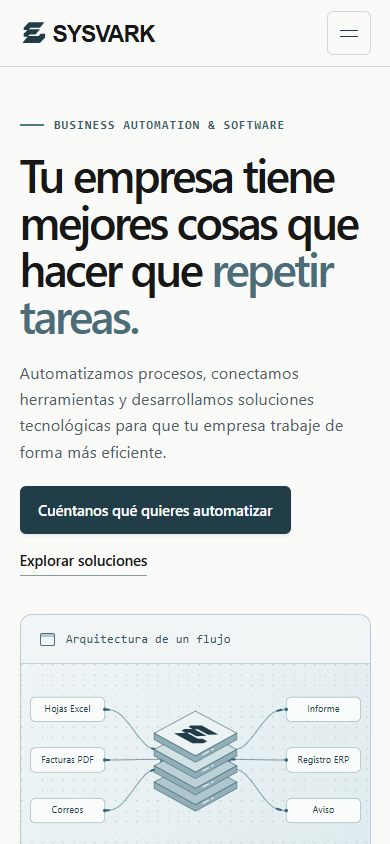
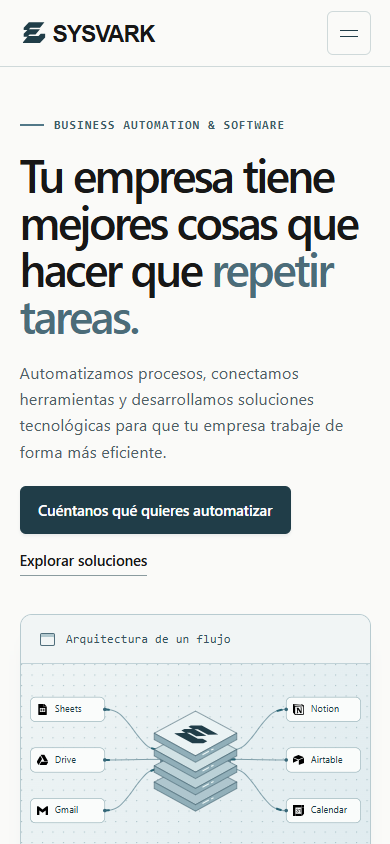
Mejora los flujos animados, las demostraciones y la calculadora

diff --git a/index.html b/index.html
@@ -22,9 +22,8 @@
 <!--DEMOS-->
 <section id="metodo" class="wrap section"><p class="eyebrow">Cómo trabajamos</p><h2>Del proceso a la implantación</h2><p class="lead">Siempre que sea viable, aprovechamos la infraestructura que tu empresa ya utiliza.</p><ol class="method-list">
 <li><h3>Entendemos el proceso</h3><p>Analizamos qué tareas se repiten, qué herramientas intervienen y dónde hace falta criterio humano.</p></li><li><h3>Diseñamos y desarrollamos</h3><p>Acordamos el alcance, el presupuesto y los entregables. Construimos la solución sobre las necesidades identificadas.</p></li><li><h3>Implantamos y acompañamos</h3><p>Probamos la solución con escenarios representativos, documentamos su uso y ofrecemos soporte si se contrata.</p></li></ol></section>
-<section id="calculadora" class="calc-band"><div class="wrap section"><p class="eyebrow">Calculadora de ahorro</p><h2>¿Qué tiempo podrías recuperar?</h2><p class="lead">Ajusta los valores para estimar el coste del trabajo manual en un proceso concreto.</p><div class="calc-grid"><div class="controls">
-<div class="calc-control"><label for="hours-number">Horas semanales dedicadas</label><span class="number-shell"><input id="hours-number" type="number" min="0" max="168" step="0.1" value="10" inputmode="decimal"><span>h</span></span><input id="hours-range" type="range" min="0" max="168" step="0.1" value="10" aria-label="Horas semanales dedicadas"></div><div class="calc-control"><label for="rate-number">Coste estimado por hora</label><span class="number-shell"><input id="rate-number" type="number" min="0" max="500" step="0.1" value="25" inputmode="decimal"><span>€</span></span><input id="rate-range" type="range" min="0" max="500" step="0.1" value="25" aria-label="Coste estimado por hora"></div><div class="calc-control"><label for="percent-number">Tiempo que podría liberarse</label><span class="number-shell"><input id="percent-number" type="number" min="0" max="100" step="0.1" value="50" inputmode="decimal"><span>%</span></span><input id="percent-range" type="range" min="0" max="100" step="0.1" value="50" aria-label="Tiempo que podría liberarse"></div></div><div class="estimate"><p>Horas potencialmente liberadas al mes</p><strong id="monthly-saved">—</strong><div class="bar-label">Tiempo actual <span id="monthly-hours">—</span></div><div class="bar"><span id="current-bar"></span></div><div class="bar-label">Con automatización <span id="remaining-hours">—</span></div><div class="bar"><span id="future-bar"></span></div><dl class="estimate-details"><div><dt>Horas liberadas al año</dt><dd id="yearly-hours">—</dd></div><div><dt>Coste mensual actual</dt><dd id="monthly-cost">—</dd></div><div><dt>Ahorro potencial mensual</dt><dd id="monthly-value">—</dd></div><div><dt>Ahorro potencial anual</dt><dd id="yearly-value">—</dd></div></dl></div></div><p class="calc-note">El valor del tiempo liberado solo se convierte en ahorro efectivo si disminuye el gasto. Esta calculadora ofrece una estimación orientativa basada en los datos introducidos. Los resultados no están garantizados y dependen de las características de cada proceso, los costes de implantación y otros factores.</p></div></section>
+<section class="wrap founder-history" aria-labelledby="founder-heading"><p class="eyebrow">Trayectoria del fundador</p><h2 id="founder-heading">Experiencia antes de SYSVARK</h2><p>Antes de fundar SYSVARK, Álvaro Sánchez Pérez desarrolló proyectos para BBVA, Telefónica, el Ministerio de Transportes, NTT DATA y UST.</p></section><section id="calculadora" class="calc-band"><div class="wrap section"><p class="eyebrow">Calculadora de ahorro</p><h2>¿Qué tiempo podrías recuperar?</h2><p class="lead">Ajusta los valores para estimar el coste del trabajo manual en un proceso concreto.</p><div class="calc-grid"><div class="controls">
+<div class="calc-control"><label for="hours-number">Horas semanales dedicadas</label><span class="number-shell"><input id="hours-number" type="number" min="0" max="168" step="0.1" value="10" inputmode="decimal"><span>h</span></span><input id="hours-range" type="range" min="0" max="168" step="0.1" value="10" aria-label="Horas semanales dedicadas"></div><div class="calc-control"><label for="rate-number">Coste estimado por hora</label><span class="number-shell"><input id="rate-number" type="number" min="0" max="500" step="0.1" value="25" inputmode="decimal"><span>€</span></span><input id="rate-range" type="range" min="0" max="500" step="0.1" value="25" aria-label="Coste estimado por hora"></div><div class="calc-control"><label for="percent-number">Tiempo que podría liberarse</label><span class="number-shell"><input id="percent-number" type="number" min="0" max="100" step="0.1" value="50" inputmode="decimal"><span>%</span></span><input id="percent-range" type="range" min="0" max="100" step="0.1" value="50" aria-label="Tiempo que podría liberarse"></div><p class="calc-note">El valor del tiempo liberado solo se convierte en ahorro efectivo si disminuye el gasto. Esta calculadora ofrece una estimación orientativa basada en los datos introducidos. Los resultados no están garantizados y dependen de las características de cada proceso, los costes de implantación y otros factores.</p></div><div class="estimate"><p>Horas potencialmente liberadas al mes</p><strong id="monthly-saved">—</strong><div class="bar-label">Tiempo actual <span id="monthly-hours">—</span></div><div class="bar"><span id="current-bar"></span></div><div class="bar-label">Con automatización <span id="remaining-hours">—</span></div><div class="bar"><span id="future-bar"></span></div><dl class="estimate-details"><div><dt>Horas liberadas al año</dt><dd id="yearly-hours">—</dd></div><div><dt>Coste mensual actual</dt><dd id="monthly-cost">—</dd></div><div><dt>Ahorro potencial mensual</dt><dd id="monthly-value">—</dd></div><div><dt>Ahorro potencial anual</dt><dd id="yearly-value">—</dd></div></dl></div></div></div></section>
 <section class="wrap section faq-layout"><div><p class="eyebrow">Preguntas frecuentes</p><h2>Antes de empezar</h2></div><div class="faq-list"><details><summary>¿Qué tipo de tareas se pueden automatizar?</summary><p>Las que se repiten con reglas claras, como consolidar archivos o enviar avisos. Primero estudiamos las entradas, las excepciones y qué debe revisar una persona.</p></details><details><summary>¿Necesito cambiar las aplicaciones que ya utilizo?</summary><p>Partimos de tus herramientas actuales. Revisamos sus formatos y opciones de conexión antes de proponer cualquier cambio.</p></details><details><summary>¿Trabajáis con Excel y PDF?</summary><p>Sí. Podemos transformar hojas de cálculo y tratar documentos. La viabilidad de extraer datos de un PDF depende de su estructura, calidad y formato.</p></details><details><summary>¿Es necesario utilizar inteligencia artificial?</summary><p>Muchos procesos se resuelven con reglas, validaciones y conexiones directas. Valoramos la IA cuando aporta una ventaja concreta.</p></details><details><summary>¿Cuánto cuesta automatizar un proceso?</summary><p>Cada proyecto se presupuesta individualmente según su alcance, herramientas, volumen de información y requisitos de mantenimiento.</p></details><details><summary>¿Cuánto tiempo requiere desarrollar una solución?</summary><p>Una vez revisados el proceso y las dependencias, acordamos los entregables y un calendario ajustado al proyecto.</p></details><details><summary>¿Qué ocurre con los datos de mi empresa?</summary><p>Antes de trabajar con datos reales acordamos los accesos, la finalidad, los proveedores implicados y las medidas de protección. Las demos de esta página muestran únicamente datos ficticios.</p></details><details><summary>¿Ofrecéis mantenimiento y soporte?</summary><p>El soporte y el mantenimiento se pueden incluir en el alcance. Acordamos por escrito la cobertura y las condiciones.</p></details><details><summary>¿Podéis desarrollar aplicaciones a medida?</summary><p>Sí. Diseñamos herramientas internas, paneles y portales en función de las personas que los utilizarán y los sistemas a los que deban conectarse.</p></details><details><summary>¿Trabajáis con pequeñas empresas?</summary><p>Sí. SYSVARK está orientado a pequeñas y medianas empresas que quieren reducir el trabajo administrativo y aprovechar mejor sus herramientas.</p></details></div></section>
 <!--CONTACT-->
 </main><footer class="footer"><div class="wrap"><div class="foot-grid"><div><img src="./assets/wordmark.svg" alt="SYSVARK" width="192" height="42"><p>Sistemas conectados. Negocios eficientes.</p><p>Automatización empresarial y software a medida para pymes.</p></div><div><h3>Explora</h3><a href="#soluciones">Soluciones</a><a href="#demostraciones">Demostraciones</a><a href="#metodo">Cómo trabajamos</a><a href="#contacto">Contacto</a></div><div><h3>Servicios</h3><a href="#soluciones">Automatización de procesos</a><a href="#soluciones">Excel, datos e informes</a><a href="#soluciones">Inteligencia artificial aplicada</a><a href="#soluciones">Software a medida</a></div></div><div class="foot-bottom"><span>© 2026 SYSVARK</span><a href="mailto:sysvark@outlook.com">Privacidad · sysvark@outlook.com</a><div><a href="https://github.com/sysvark">GitHub</a><a href="./aviso-legal.html">Aviso legal</a><a href="./privacidad.html">Política de privacidad</a></div></div></div></footer></body></html>
-

diff --git a/demos/demo.css b/demos/demo.css
@@ -9,7 +9,8 @@
 .scene[data-stage="1"] .sheet-pile span:first-child,.scene[data-stage="2"] .sheet-pile span:first-child{transform:translate(6px,6px) rotate(3deg)}.scene[data-stage="1"] .sheet-pile span:last-child,.scene[data-stage="2"] .sheet-pile span:last-child{transform:translate(6px,-6px) rotate(-3deg)}
 .transfer{position:relative;height:2px;background:#a5b8b9;overflow:hidden}.transfer:after{content:'';position:absolute;inset:0 auto 0 0;width:40%;background:var(--accent);animation:transfer 1.45s linear infinite}@keyframes transfer{from{left:-45%}to{left:100%}}
 .ledger{position:relative;overflow:hidden}.ledger>strong{display:block;color:white;background:#264954;padding:.65rem;font-size:.88rem}.ledger dl{margin:0}.ledger dl div{display:flex;align-items:center;justify-content:space-between;flex-wrap:wrap;gap:.2rem .4rem;padding:.55rem;border-bottom:1px solid #dfebe5;font-size:.8rem;min-height:36px}.ledger dd{font-weight:650;margin:0;transition:opacity .55s,transform .55s}.good{color:#275a46}.review{color:#81591f}.scene[data-stage="0"] .ledger dd{opacity:.12;transform:translateY(4px)}.scene[data-stage="1"] .ledger dl div:last-child dd{opacity:.22}
-.bill-paper,.mail-card{padding:clamp(.6rem,1.6vw,1rem);position:relative;overflow:hidden}.bill-paper>*:not(i),.mail-card>*{display:block}.bill-paper b,.mail-card b{margin:.5rem 0}.bill-paper div,.mail-card span{font-size:.8rem;color:#485b62}.bill-paper hr{border:0;border-bottom:1px dashed #a7aaa0;margin:.9rem 0}.bill-paper i{position:absolute;left:0;right:0;top:8%;height:2px;background:#ba9660;opacity:0}.bills[data-stage="1"] .bill-paper i{opacity:1;animation:scan 2.2s ease-in-out both}@keyframes scan{to{top:92%}}
+.bill-paper,.mail-card{padding:clamp(.6rem,1.6vw,1rem);position:relative;overflow:hidden}.bill-paper>*:not(i):not(table),.mail-card>*{display:block}.bill-paper b,.mail-card b{margin:.5rem 0}.bill-paper div,.mail-card span{font-size:.8rem;color:#485b62}.bill-paper hr{border:0;border-bottom:1px dashed #a7aaa0;margin:.9rem 0}.bill-paper i{position:absolute;left:0;right:0;top:8%;height:2px;background:#ba9660;opacity:0}.bills[data-stage="1"] .bill-paper i{opacity:1;animation:scan 2.2s ease-in-out both}@keyframes scan{to{top:92%}}
 .mail-card{border-top:4px solid #72899f}.matched{transition:background .6s}.inbox:not([data-stage="0"]) .matched{background:#dfebec}.scene footer{grid-column:1/-1;display:grid;grid-template-columns:repeat(3,1fr);gap:.65rem;background:transparent;color:#4b6061;padding:0}.scene footer span{border-top:3px solid #d5dfdd;padding:.5rem 0 0;font-size:.86rem}.scene[data-stage="0"] footer span:first-child,.scene[data-stage="1"] footer span:nth-child(2),.scene[data-stage="2"] footer span:last-child{border-color:var(--accent);color:#203d48;font-weight:650}
 @media(min-width:741px){.scene header{min-height:203px}}@media(max-width:740px){.scene{grid-template-columns:1fr;gap:1rem}.scene header p{max-width:none;min-height:4.7em;margin-bottom:0}.workbench{min-height:210px}.scene footer span{font-size:.78rem}}
 @media(prefers-reduced-motion:reduce){.scene+.scene:not([hidden]){margin-top:1rem}.scene *,.scene *:after{animation:none!important;transition:none!important}}
+.scene-picker{display:flex;flex-wrap:wrap;gap:.45rem;margin:1.3rem 0 .85rem}.scene-picker button,.scene footer button{font:inherit;cursor:pointer;color:#274953}.scene-picker button{border:1px solid #aebfc2;background:#fafbf8;padding:.6rem 1rem;border-radius:20px;font-size:.92rem}.scene-picker [aria-pressed=true]{background:#203d48;color:white;border-color:#203d48}.scene footer{display:flex;flex-wrap:wrap}.scene footer button{flex:1 1 5rem;text-align:left;background:transparent;border:0;border-top:3px solid #c9d7d4;padding:.65rem .15rem;font-size:.87rem}.scene footer [aria-pressed=true]{border-color:var(--accent);font-weight:650}.showcase button:focus-visible{outline:3px solid #426d79;outline-offset:3px}.bills .workbench{grid-template-columns:minmax(0,1.3fr) minmax(12px,.12fr) minmax(0,1fr)}.bill-paper{border-radius:1px;transform:rotate(-1.6deg);font-family:Arial,sans-serif;box-shadow:2px 6px 12px #203d4824}.bill-paper .invoice-letterhead{border-bottom:2px solid #284953;padding-bottom:.4rem}.invoice-letterhead b{display:block;color:#203d48;font:650 clamp(1rem,2vw,1.45rem) Georgia,serif;margin:0}.invoice-letterhead small,.bill-paper .invoice-foot{font-size:.65rem}.invoice-ident{margin:.65rem 0;font-size:.75rem}.invoice-ident span{display:block}.bill-paper table{width:100%;border-collapse:collapse;font-size:.72rem}.bill-paper caption{position:absolute;clip-path:inset(50%);width:1px;height:1px;overflow:hidden}.bill-paper th,.bill-paper td{text-align:left;padding:.3rem 0;border-bottom:1px solid #c2ccca}.bill-paper th:last-child,.bill-paper td:last-child{text-align:right;white-space:nowrap}.bill-paper .invoice-tax,.bill-paper .invoice-total{display:flex;align-items:center;justify-content:space-between;font-size:.75rem}.bill-paper .invoice-total{border-top:1px solid #a3b1b1;padding:.35rem 0}.invoice-foot{margin-top:.4rem}.flow-canvas{padding:1.25rem;border-radius:10px;background:#e8eff0;background-image:radial-gradient(#9fb6bf70 1px,transparent 1px);background-size:12px 12px;border:1px solid #b9c9cc}.workflow-nodes{list-style:none;display:grid;grid-template-columns:repeat(6,1fr);gap:1rem .75rem;margin:0;padding:0}.workflow-nodes li{grid-column:span 2;display:grid;gap:.25rem;position:relative;background:#fafcfb;border:1px solid #aebfc4;border-radius:7px;padding:.7rem;align-content:start;transition:border-color .4s,box-shadow .4s}.workflow-nodes li:nth-child(4){grid-column:3/5}.workflow-nodes li:nth-child(5){grid-column:1/3;grid-row:2}.workflow-nodes li:nth-child(4){grid-row:2}.workflow-nodes img{width:20px;height:20px}.workflow-nodes b{font-size:.88rem}.workflow-nodes span{font-size:.78rem;color:#47606a}.workflow-nodes .current{border-color:#477685;box-shadow:0 0 0 2px #81a8b46b}.workflow-nodes li:after{content:'';position:absolute;left:100%;top:50%;width:.75rem;border-top:2px solid #8da7af}.workflow-nodes li:nth-child(3):after{left:50%;top:100%;width:calc(100% + .75rem);height:calc(50% + 1rem);transform:translateX(-100%);border:0;border-right:2px solid #8da7af;border-bottom:2px solid #8da7af;border-radius:0 0 7px}.workflow-nodes li:nth-child(4):after{left:auto;right:100%}.workflow-nodes li:last-child:after{display:none}.workflow-nodes .reached{background:#eff7f5}.branch-note{margin:1rem 0 0;font-size:.85rem;color:#485d63}@media(max-width:520px){.scene-picker button{flex:1 1 42%;padding:.55rem .35rem}.bills .workbench{grid-template-columns:1fr;gap:.6rem}.bills .transfer{display:none}.bill-paper{width:min(100%,210px);justify-self:center}.flow-canvas{padding:.75rem}.workflow-nodes{grid-template-columns:1fr;gap:.55rem}.workflow-nodes li,.workflow-nodes li:nth-child(4),.workflow-nodes li:nth-child(5){grid-column:auto;grid-row:auto;grid-template-columns:22px 1fr;align-items:center;padding:.5rem}.workflow-nodes span{grid-column:2}.workflow-nodes li:not(:last-child):after{width:0;height:.55rem;top:100%;left:17px;right:auto;transform:none;border:0;border-left:2px solid #8da7af}}

diff --git a/privacidad.html b/privacidad.html
@@ -1,2 +1,1 @@
-<!doctype html><html lang="es-ES"><head><meta charset="utf-8"><meta name="viewport" content="width=device-width, initial-scale=1"><title>Política de privacidad · SYSVARK</title><meta name="description" content="Cómo funcionan las demostraciones locales y el contacto de privacidad de SYSVARK."><link rel="canonical" href="https://sysvark.github.io/privacidad.html"><meta property="og:title" content="Política de privacidad · SYSVARK"><meta property="og:description" content="Cómo funcionan las demostraciones locales y el contacto de privacidad de SYSVARK."><meta property="og:image" content="https://sysvark.github.io/assets/og.png"><meta name="twitter:card" content="summary_large_image"><link rel="icon" href="./assets/favicon.svg"><link rel="stylesheet" href="./assets/legal.css"></head><body><header><a href="./" aria-label="Volver a SYSVARK"><img src="./assets/wordmark.svg" width="160" height="35" alt="SYSVARK"></a></header><main><p>Información del sitio · 24 noviembre 2026</p><h1>Política de privacidad</h1><h2>Responsable y contacto</h2><p>Álvaro Sánchez Pérez, responsable del proyecto SYSVARK en España, atiende las consultas de privacidad en <a href="mailto:sysvark@outlook.com">sysvark@outlook.com</a>.</p><h2>Demostraciones y calculadora</h2><p>Las tres animaciones utilizan ejemplos ficticios incluidos en la página. La calculadora realiza la estimación en el navegador. Los valores que introduces se descartan al cerrar o recargar la página.</p><h2>Correo y ejercicio de derechos</h2><p>Si escribes al buzón, se reciben tu dirección y el contenido que decidas enviar. Se utilizarán para atender tu comunicación y acreditar su respuesta durante el plazo que exijan las obligaciones aplicables. Microsoft presta el servicio de correo. Las solicitudes de derechos se atienden en cumplimiento de las obligaciones legales del responsable.</p><p>Puedes solicitar acceso, rectificación, supresión, limitación, oposición o portabilidad cuando proceda y presentar una reclamación ante la <a href="https://www.aepd.es/">Agencia Española de Protección de Datos</a>. Evita adjuntar documentación confidencial al primer mensaje.</p><h2>Registros de alojamiento y cookies</h2><p>Cuando accedes a una publicación en GitHub Pages, GitHub recibe datos técnicos de la conexión, incluida la dirección IP. Su política describe los fines, conservación y transferencias internacionales. Esta web carece de analítica, publicidad y cookies propias. Los estilos, gráficos y bibliotecas se sirven junto a la web.</p><p><a href="https://docs.github.com/en/site-policy/privacy-policies/github-general-privacy-statement">Privacidad de GitHub</a> · <a href="https://privacy.microsoft.com/es-es/privacystatement">Privacidad de Microsoft</a></p><h2>Solicitudes comerciales</h2><p>El formulario permanece deshabilitado. Antes de abrirlo se actualizará esta información con la finalidad, la base jurídica, los destinatarios, la conservación y las garantías aplicables al proveedor elegido.</p></main><footer><a href="./">Inicio</a> · <a href="./aviso-legal.html">Aviso legal</a> · <a href="./privacidad.html">Privacidad</a></footer></body></html>
-
+<!doctype html><html lang="es-ES"><head><meta charset="utf-8"><meta name="viewport" content="width=device-width, initial-scale=1"><title>Política de privacidad · SYSVARK</title><meta name="description" content="Cómo funcionan las demostraciones locales y el contacto de privacidad de SYSVARK."><link rel="canonical" href="https://sysvark.github.io/privacidad.html"><meta property="og:title" content="Política de privacidad · SYSVARK"><meta property="og:description" content="Cómo funcionan las demostraciones locales y el contacto de privacidad de SYSVARK."><meta property="og:image" content="https://sysvark.github.io/assets/og.png"><meta name="twitter:card" content="summary_large_image"><link rel="icon" href="./assets/favicon.svg"><link rel="stylesheet" href="./assets/legal.css"></head><body><header><a href="./" aria-label="Volver a SYSVARK"><img src="./assets/wordmark.svg" width="160" height="35" alt="SYSVARK"></a></header><main><p>Información del sitio · 24 noviembre 2026</p><h1>Política de privacidad</h1><h2>Responsable y contacto</h2><p>Álvaro Sánchez Pérez, responsable del proyecto SYSVARK en España, atiende las consultas de privacidad en <a href="mailto:sysvark@outlook.com">sysvark@outlook.com</a>.</p><h2>Demostraciones y calculadora</h2><p>Las cuatro animaciones utilizan ejemplos ficticios incluidos en la página. La calculadora realiza la estimación en el navegador. Los valores que introduces se descartan al cerrar o recargar la página.</p><h2>Correo y ejercicio de derechos</h2><p>Si escribes al buzón, se reciben tu dirección y el contenido que decidas enviar. Se utilizarán para atender tu comunicación y acreditar su respuesta durante el plazo que exijan las obligaciones aplicables. Microsoft presta el servicio de correo. Las solicitudes de derechos se atienden en cumplimiento de las obligaciones legales del responsable.</p><p>Puedes solicitar acceso, rectificación, supresión, limitación, oposición o portabilidad cuando proceda y presentar una reclamación ante la <a href="https://www.aepd.es/">Agencia Española de Protección de Datos</a>. Evita adjuntar documentación confidencial al primer mensaje.</p><h2>Registros de alojamiento y cookies</h2><p>Cuando accedes a una publicación en GitHub Pages, GitHub recibe datos técnicos de la conexión, incluida la dirección IP. Su política describe los fines, conservación y transferencias internacionales. Esta web carece de analítica, publicidad y cookies propias. Los estilos, gráficos y bibliotecas se sirven junto a la web.</p><p><a href="https://docs.github.com/en/site-policy/privacy-policies/github-general-privacy-statement">Privacidad de GitHub</a> · <a href="https://privacy.microsoft.com/es-es/privacystatement">Privacidad de Microsoft</a></p><h2>Solicitudes comerciales</h2><p>El formulario permanece deshabilitado. Antes de abrirlo se actualizará esta información con la finalidad, la base jurídica, los destinatarios, la conservación y las garantías aplicables al proveedor elegido.</p></main><footer><a href="./">Inicio</a> · <a href="./aviso-legal.html">Aviso legal</a> · <a href="./privacidad.html">Privacidad</a></footer></body></html>

diff --git a/demos/section.html b/demos/section.html
@@ -1,27 +1,31 @@
 <section class="showcase" id="demostraciones" aria-labelledby="demo-heading">
 <div class="showcase-inner">
 <p class="eyebrow">Demostraciones</p><h2 id="demo-heading">De la tarea al resultado.</h2>
-<p class="showcase-intro">Tres ejemplos animados con datos ficticios.</p>
-<div class="demo-theater">
-<article class="scene sheets" data-stage="0">
+<p class="showcase-intro">Cuatro procesos con datos ficticios. Elige un ejemplo o sigue el recorrido automático.</p>
+<div class="demo-theater"><div class="scene-picker" role="group" aria-label="Seleccionar demostración"><button type="button" aria-controls="example-sheets">Informes Excel</button><button type="button" aria-controls="example-bills">Facturas</button><button type="button" aria-controls="example-inbox">Solicitudes</button><button type="button" aria-controls="example-flow">Flujo conectado</button></div>
+<article id="example-sheets" class="scene sheets" data-stage="0">
 <header><small>Excel e informes</small><h3>Tres hojas, un cierre.</h3><p>Un mismo pedido aparece en dos archivos. El informe agrupa la copia y señala los importes que necesitan revisión.</p></header>
 <div class="workbench" aria-label="Dos filas idénticas se consolidan y una diferencia queda marcada">
 <div class="sheet-pile"><span>Norte.xlsx</span><span>Centro.xlsx</span><span>Sur.xlsx</span></div>
 <div class="transfer" aria-hidden="true"></div>
 <div class="ledger"><strong>Informe consolidado</strong><dl><div><dt>OP-102 · 80 €</dt><dd class="good">Copia agrupada</dd></div><div><dt>OP-103 · 32 / 36 €</dt><dd class="review">Revisar</dd></div></dl></div></div>
-<footer><span>Reunir hojas</span><span>Cruzar referencias</span><span>Revisar diferencias</span></footer></article>
-<article class="scene bills" data-stage="0">
+<footer aria-label="Etapas del ejemplo"><button type="button">Reunir hojas</button><button type="button">Cruzar referencias</button><button type="button">Revisar diferencias</button></footer></article>
+<article id="example-bills" class="scene bills" data-stage="0">
 <header><small>Facturas y documentos</small><h3>Del papel al registro.</h3><p>El número de factura y los importes pasan del documento a campos separados, listos para una revisión humana.</p></header>
 <div class="workbench" aria-label="Una línea recorre la factura y los valores aparecen en el registro">
-<div class="bill-paper"><small>FACTURA</small><b>FIC-001</b><div>Material de archivo</div><hr><strong>145,20 €</strong><i aria-hidden="true"></i></div>
+<div class="bill-paper"><div class="invoice-letterhead"><b>Taller Nube</b><small>SUMINISTROS</small></div><div class="invoice-ident"><strong>FACTURA</strong><span>FIC-001 · 12/03/2026</span></div><table><caption>Detalle de la factura ficticia</caption><thead><tr><th>Concepto</th><th>Importe</th></tr></thead><tbody><tr><td>Material de archivo</td><td>120,00 €</td></tr></tbody></table><div class="invoice-tax">IVA 21 % <b>25,20 €</b></div><div class="invoice-total">TOTAL <strong>145,20 €</strong></div><small class="invoice-foot">Muestra sin validez fiscal</small><i aria-hidden="true"></i></div>
 <div class="transfer" aria-hidden="true"></div>
 <div class="ledger"><strong>Registro contable</strong><dl><div><dt>Base</dt><dd>120,00 €</dd></div><div><dt>IVA</dt><dd>25,20 €</dd></div><div><dt>Total</dt><dd>145,20 €</dd></div></dl></div></div>
-<footer><span>Recibir factura</span><span>Leer campos</span><span>Preparar registro</span></footer></article>
-<article class="scene inbox" data-stage="0">
+<footer aria-label="Etapas del ejemplo"><button type="button">Recibir factura</button><button type="button">Leer campos</button><button type="button">Preparar registro</button></footer></article>
+<article id="example-inbox" class="scene inbox" data-stage="0">
 <header><small>Seguimiento de solicitudes</small><h3>Del buzón al responsable.</h3><p>Una regla reconoce una incidencia de entrega, la asigna a logística y deja un aviso para su seguimiento.</p></header>
 <div class="workbench" aria-label="Una solicitud sobre un envío llega a la cola de logística">
 <div class="mail-card"><small>BANDEJA DE ENTRADA</small><b>¿Dónde está mi pedido?</b><span>Pedido #418</span></div>
 <div class="transfer" aria-hidden="true"></div>
 <div class="ledger queues"><strong>Asignación por asunto</strong><dl><div><dt>Facturación</dt><dd>—</dd></div><div class="matched"><dt>Logística</dt><dd>#418</dd></div><div><dt>Aviso de seguimiento</dt><dd class="good">Creado</dd></div></dl></div></div>
-<footer><span>Recibir correo</span><span>Clasificar asunto</span><span>Asignar y avisar</span></footer></article>
+<footer aria-label="Etapas del ejemplo"><button type="button">Recibir correo</button><button type="button">Clasificar asunto</button><button type="button">Asignar y avisar</button></footer></article>
+<article id="example-flow" class="scene workflow" data-stage="0">
+<header><small>Integración de herramientas</small><h3>Un pedido conecta cuatro sistemas.</h3><p>Un formulario recibe el pedido #418. Una regla consulta el stock y decide si puede registrarlo y enviar la confirmación.</p></header>
+<div class="flow-canvas"><ol class="workflow-nodes"><li><img src="./assets/logos/googleforms.svg" alt=""><b>Formulario</b><span>Pedido #418</span></li><li><img src="./assets/logos/airtable.svg" alt=""><b>Inventario</b><span>3 unidades disponibles</span></li><li><img src="./assets/logos/n8n.svg" alt=""><b>Regla de stock</b><span>Se necesitan 2 → continuar</span></li><li><img src="./assets/logos/googlesheets.svg" alt=""><b>Registro</b><span>Pedido confirmado</span></li><li><img src="./assets/logos/gmail.svg" alt=""><b>Correo</b><span>Aviso al cliente</span></li></ol><p class="branch-note">Si falta stock, el pedido pasa a revisión.</p></div>
+<footer aria-label="Etapas del ejemplo"><button type="button">Recibir</button><button type="button">Consultar</button><button type="button">Decidir</button><button type="button">Registrar</button><button type="button">Notificar</button></footer></article>
 </div></div></section>

diff --git a/assets/site.js b/assets/site.js
@@ -81,12 +81,13 @@ if (blueprint) {
   const layers = blueprint.querySelectorAll('.flow-layer');
   const labels = blueprint.querySelectorAll('.port-label');
   const motion = matchMedia('(prefers-reduced-motion: reduce)');
-  const examples = [
-    ['Hojas Excel','Facturas PDF','Correos','Informe','Registro ERP','Aviso'],
-    ['Pedidos web','Inventario','Albaranes','Stock al día','Envíos','Incidencias'],
-    ['Formulario','Buzón','CRM','Expediente','Asignación','Seguimiento']
+  const tools = [
+    ['googlesheets','Sheets'],['googledrive','Drive'],['gmail','Gmail'],
+    ['notion','Notion'],['airtable','Airtable'],['googlecalendar','Calendar'],
+    ['googleforms','Forms'],['github','GitHub'],['n8n','n8n']
   ];
-  let group = 0;
+  let change = 0;
+  let fade;
   let timer;
   let frame;
   let visible = false;
@@ -99,12 +100,23 @@ if (blueprint) {
   function queue() { if (visible && !frame) frame = requestAnimationFrame(compact); }
   function synchronize() {
     clearInterval(timer);
+    clearTimeout(fade);
+    blueprint.querySelectorAll(".fading").forEach(node => node.classList.remove("fading"));
     compact();
     if (visible && !document.hidden && !motion.matches) {
       timer = setInterval(() => {
-        group = (group + 1) % examples.length;
-        labels.forEach((label,i) => { label.textContent = examples[group][i]; });
-      }, 4800);
+        const index = change % labels.length;
+        const label = labels[index];
+        const node = label.parentElement;
+        const [icon, name] = tools[(index + 3 * (1 + Math.floor(change / labels.length))) % tools.length];
+        node.classList.add('fading');
+        fade = setTimeout(() => {
+          node.querySelector('image').setAttribute('href','/assets/logos/' + icon + '.svg');
+          label.textContent = name;
+          node.classList.remove('fading');
+          change++;
+        }, 440);
+      }, 1900);
     }
   }
   new IntersectionObserver(([entry]) => { visible = entry.isIntersecting; synchronize(); }).observe(blueprint);

diff --git a/assets/site.css b/assets/site.css
@@ -54,3 +54,4 @@ h3{font-size:1.32rem;letter-spacing:-.03em}.lead{max-width:43rem;margin-top:1rem
 .link-btn:hover{border-bottom-color:#203d48;color:#254f60}.blueprint>svg{aspect-ratio:600/330}
 
 .flow-packets{animation:deliver 2.4s linear infinite}@keyframes deliver{to{stroke-dashoffset:-109}}@media(prefers-reduced-motion:reduce){.flow-packets{animation:none}}
+.controls .calc-note{margin:.8rem 0 0;max-width:65ch;line-height:1.55}.founder-history{padding-block:clamp(2rem,4vw,4rem);border-top:1px solid var(--line)}.founder-history h2{font-size:clamp(1.7rem,3vw,2.4rem);letter-spacing:-.04em;margin:.4rem 0}.founder-history>p:last-child{max-width:65ch;line-height:1.65}.port-content{transition:opacity .42s ease-in-out}.port-content.fading{opacity:0}@media(prefers-reduced-motion:reduce){.port-content{transition:none}}

diff --git a/README.md b/README.md
@@ -1,6 +1,6 @@
 # SYSVARK
 
-Web en español de SYSVARK, proyecto español de automatización empresarial, integración de herramientas y desarrollo de software a medida fundado por Álvaro Sánchez Pérez. Incluye una presentación de los servicios, tres demostraciones animadas con ejemplos ficticios y una calculadora del coste del trabajo manual.
+Web en español de SYSVARK, proyecto español de automatización empresarial, integración de herramientas y desarrollo de software a medida fundado por Álvaro Sánchez Pérez. Incluye una presentación de los servicios, cuatro demostraciones animadas con ejemplos ficticios y una calculadora del coste del trabajo manual.
 
 ## Ejecutar y compilar
 
@@ -34,13 +34,13 @@ HTML semántico, CSS responsive, gráficos SVG, módulos JavaScript y un ensambl
 
 ### Cambiar contenidos y diseño
 
-Edita la sección correspondiente de `index.html`. Para añadir un servicio, replica un artículo dentro de Soluciones y ajusta su título, icono, texto y lista. Para una nueva demo, añade su panel en `demos/section.html`, usa la estructura de tres etapas y verifica su rotación en el navegador. Conserva los marcadores de ensamblado DEMOS y CONTACT. Los componentes comparten colores y tipografía en `assets/site.css`. Si cambias el logotipo, actualiza el maestro en `brand/`, las variantes de uso y los recursos de `assets/`. Sigue la guía de identidad.
+Edita la sección correspondiente de `index.html`. Para añadir un servicio, replica un artículo dentro de Soluciones y ajusta su título, icono, texto y lista. Para una nueva demo, añade su panel en `demos/section.html`, define sus etapas en el módulo de demostraciones y verifica su rotación en el navegador. Conserva los marcadores de ensamblado DEMOS y CONTACT. Los componentes comparten colores y tipografía en `assets/site.css`. Si cambias el logotipo, actualiza el maestro en `brand/`, las variantes de uso y los recursos de `assets/`. Sigue la guía de identidad.
 
 Para introducir otro idioma, conserva esta portada en la raíz y crea una ruta estática por idioma. Traduce etiquetas, validaciones y descripciones accesibles, actualiza `lang`, URLs canónicas, sitemap y enlaces de idioma antes de publicarla.
 
 ### Datos y contacto
 
-Las escenas ilustran la consolidación de hojas, la lectura de facturas y el reparto de solicitudes. Avanzan automáticamente con datos ficticios. El modo de movimiento reducido presenta las tres historias en lectura estática. La calculadora usa 52 semanas por año y 12 meses.
+Las escenas ilustran la consolidación de hojas, la lectura de facturas el reparto de solicitudes y un flujo de pedido conectado. Avanzan automáticamente con datos ficticios. El selector de ejemplo y los botones de etapa permiten recorrerlas manualmente. El modo de movimiento reducido desactiva el avance automático. La calculadora usa 52 semanas por año y 12 meses.
 
 El formulario se entrega desactivado. Para la futura captación, confirma primero la compatibilidad del alojamiento, completa la identidad del responsable y revisa el tratamiento con el proveedor. En la cuenta del titular crea un formulario de Formspree con destinatario verificado, configura su filtro de spam, acuerda la gestión de retención y actualiza la política de privacidad. Asigna el **endpoint público** de ese formulario a `FORMSPREE_ENDPOINT` al compilar. El workflow informativo omite la variable. Para activarla en un despliegue autorizado, configúrala como variable del repositorio y pásala explícitamente al paso de compilación. Comprueba con un mensaje ficticio tanto la respuesta del servicio como la llegada al buzón. Verifica también el caso sin conexión. La confirmación del servicio y la entrega al destinatario son comprobaciones distintas.
 
@@ -51,7 +51,7 @@ Las únicas variables son `SITE_URL` (origen HTTPS de la web, obtenido de Pages 
 1. En la cuenta dedicada, crea un repositorio público vacío llamado exactamente **usuario.github.io**, sustituyendo *usuario* por el nombre confirmado.
 2. En **Settings → Pages → Build and deployment**, selecciona **GitHub Actions**. Sube las fuentes a la rama `main` y consulta la ejecución **Publicar web en Pages** en Actions.
 3. La compilación instala desde el archivo de bloqueo, ejecuta las pruebas, integra secciones, comprueba los enlaces y sube únicamente `dist/`. El trabajo de despliegue recibe los permisos de escritura en Pages e identidad temporal. Si falla la compilación, el despliegue no se inicia.
-4. Comprueba la URL de entorno de la ejecución terminada, el certificado HTTPS, el 404, la compactación al desplazarse y el ciclo completo de las tres escenas. En **Settings → Pages**, verifica **Enforce HTTPS** cuando esté disponible. La URL del repositorio no es la URL de la web.
+4. Comprueba la URL de entorno de la ejecución terminada, el certificado HTTPS, el 404, la compactación al desplazarse y el ciclo completo de las cuatro escenas. En **Settings → Pages**, verifica **Enforce HTTPS** cuando esté disponible. La URL del repositorio no es la URL de la web.
 
 Las condiciones de Pages afectan al uso comercial. Mantén esta edición informativa mientras se resuelve la captación. Consulta las fuentes y decisiones en `docs/verificaciones.md`. Para migrar, configura `SITE_URL` con el nuevo origen, compila y sirve el contenido de `dist/` desde la raíz de un alojamiento estático con HTTPS. No se ha configurado un dominio propio.
 
@@ -62,4 +62,3 @@ Las condiciones de Pages afectan al uso comercial. Mantén esta edición informa
 - **Actions no despliega.** Comprueba el nombre del repositorio, que la rama sea `main`, la fuente GitHub Actions y la primera etapa fallida en el registro. Tras corregirla, reintenta la ejecución.
 - **El formulario está desactivado.** Es el estado inicial previsto. Una vez activado, revisa el endpoint, las cuotas, el filtro antispam y la verificación del destinatario si deja de recibir mensajes.
 - **Actualizar dependencias.** Revisa los avisos de seguridad y las versiones oficiales de PDF.js, JSZip y acciones de GitHub. Conserva las licencias. Repite pruebas de archivos, exportación, navegación y movimiento reducido después de actualizar. Las bibliotecas vendorizadas quedan fuera de npm audit.
-
